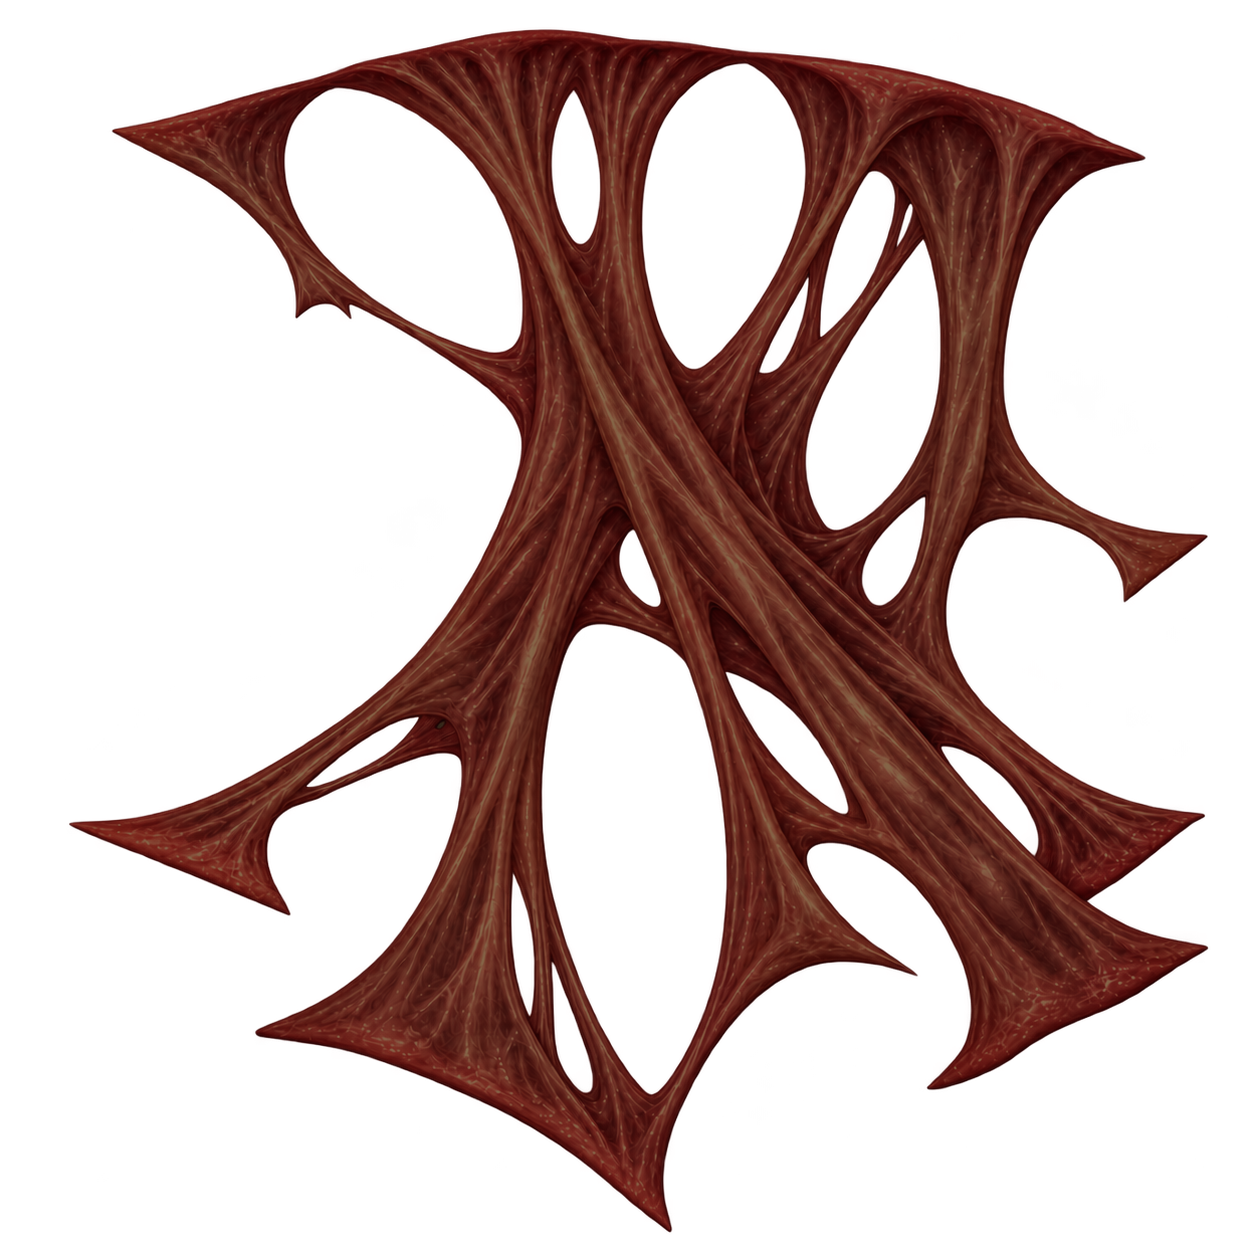
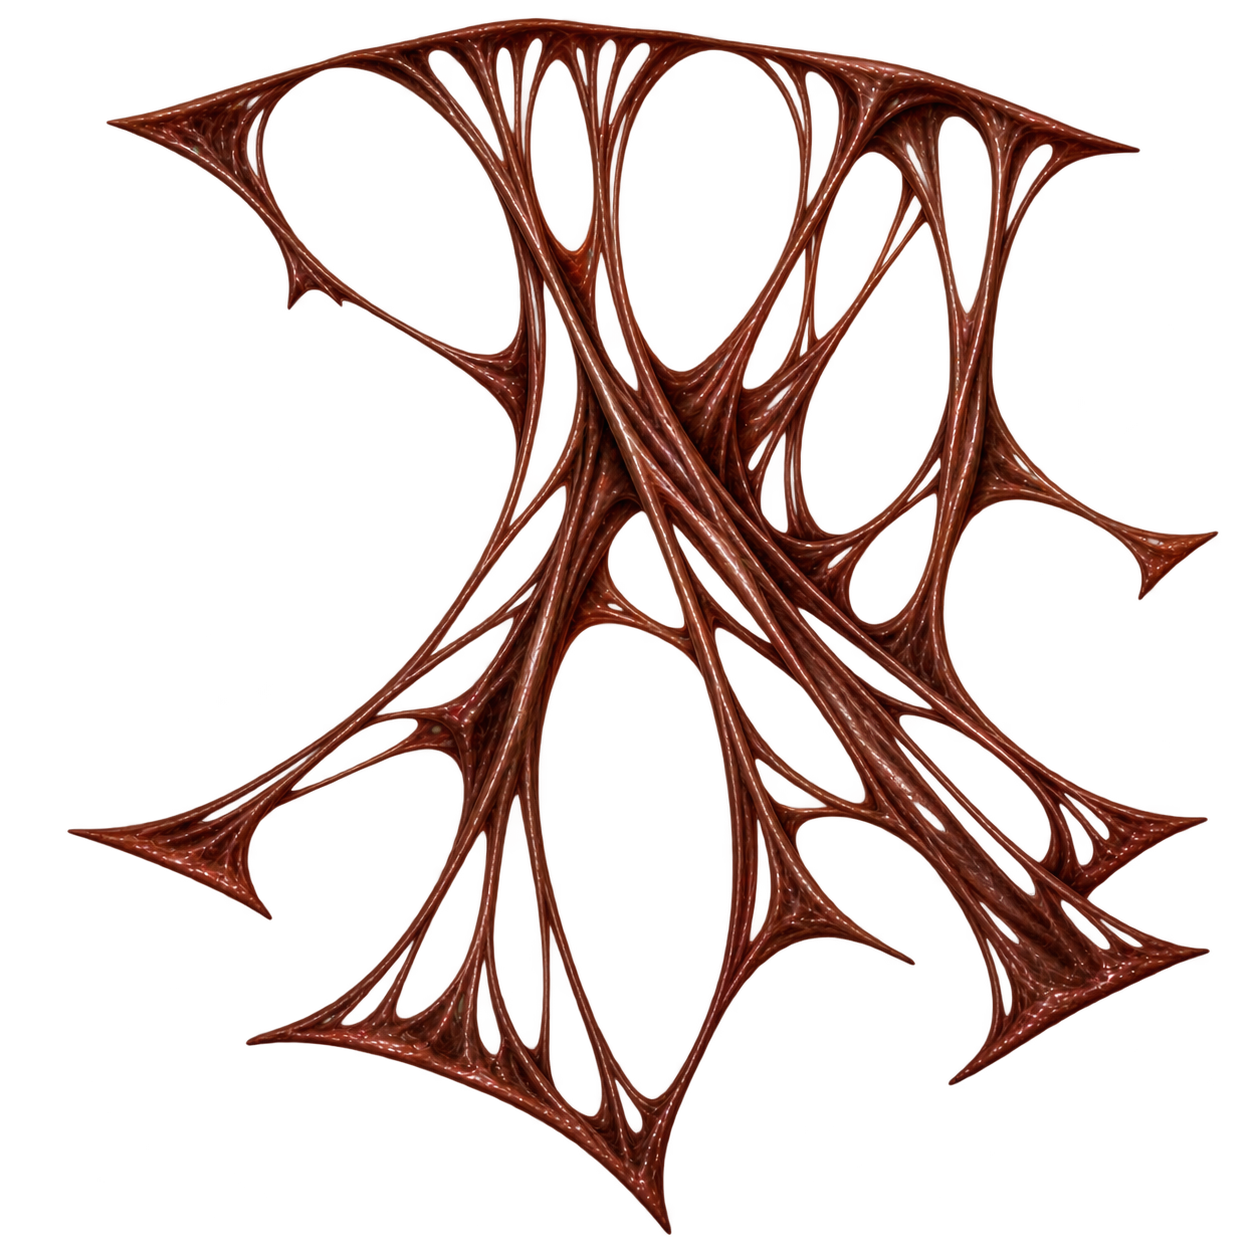
Substituir Aderencia 1 pela nova imagem transparente

Changed region(s): [[0.0622, 0.0, 0.9641, 0.9952]]

diff --git a/app.html b/app.html
@@ -607,8 +607,8 @@
             <img src="assets/lesoes/diu-hormonal-referencia.png" alt="" />
             <span>DIU hormonal</span>
           </button>
-          <button class="modelo-lesao" type="button" data-modelo="assets/lesoes/aderencia-1-marrom-escuro.png" data-nome="Aderências 1" data-proporcao="1" data-sem-recorte="true" data-tamanho-inicial="75">
-            <img src="assets/lesoes/aderencia-1-marrom-escuro.png" alt="" />
+          <button class="modelo-lesao" type="button" data-modelo="assets/lesoes/aderencia-1-marrom-escuro.png?v=0187ce02" data-nome="Aderências 1" data-proporcao="1" data-sem-recorte="true" data-tamanho-inicial="75">
+            <img src="assets/lesoes/aderencia-1-marrom-escuro.png?v=0187ce02" alt="" style="object-fit: contain; border-radius: 0" />
             <span>Aderências 1</span>
           </button>
           <button class="modelo-lesao" type="button" data-modelo="assets/lesoes/aderencia-2-marrom-escuro.png?v=9ebaf7f9" data-nome="Aderência 2" data-proporcao="0.9624413145539906" data-sem-recorte="true" data-tamanho-inicial="80">
